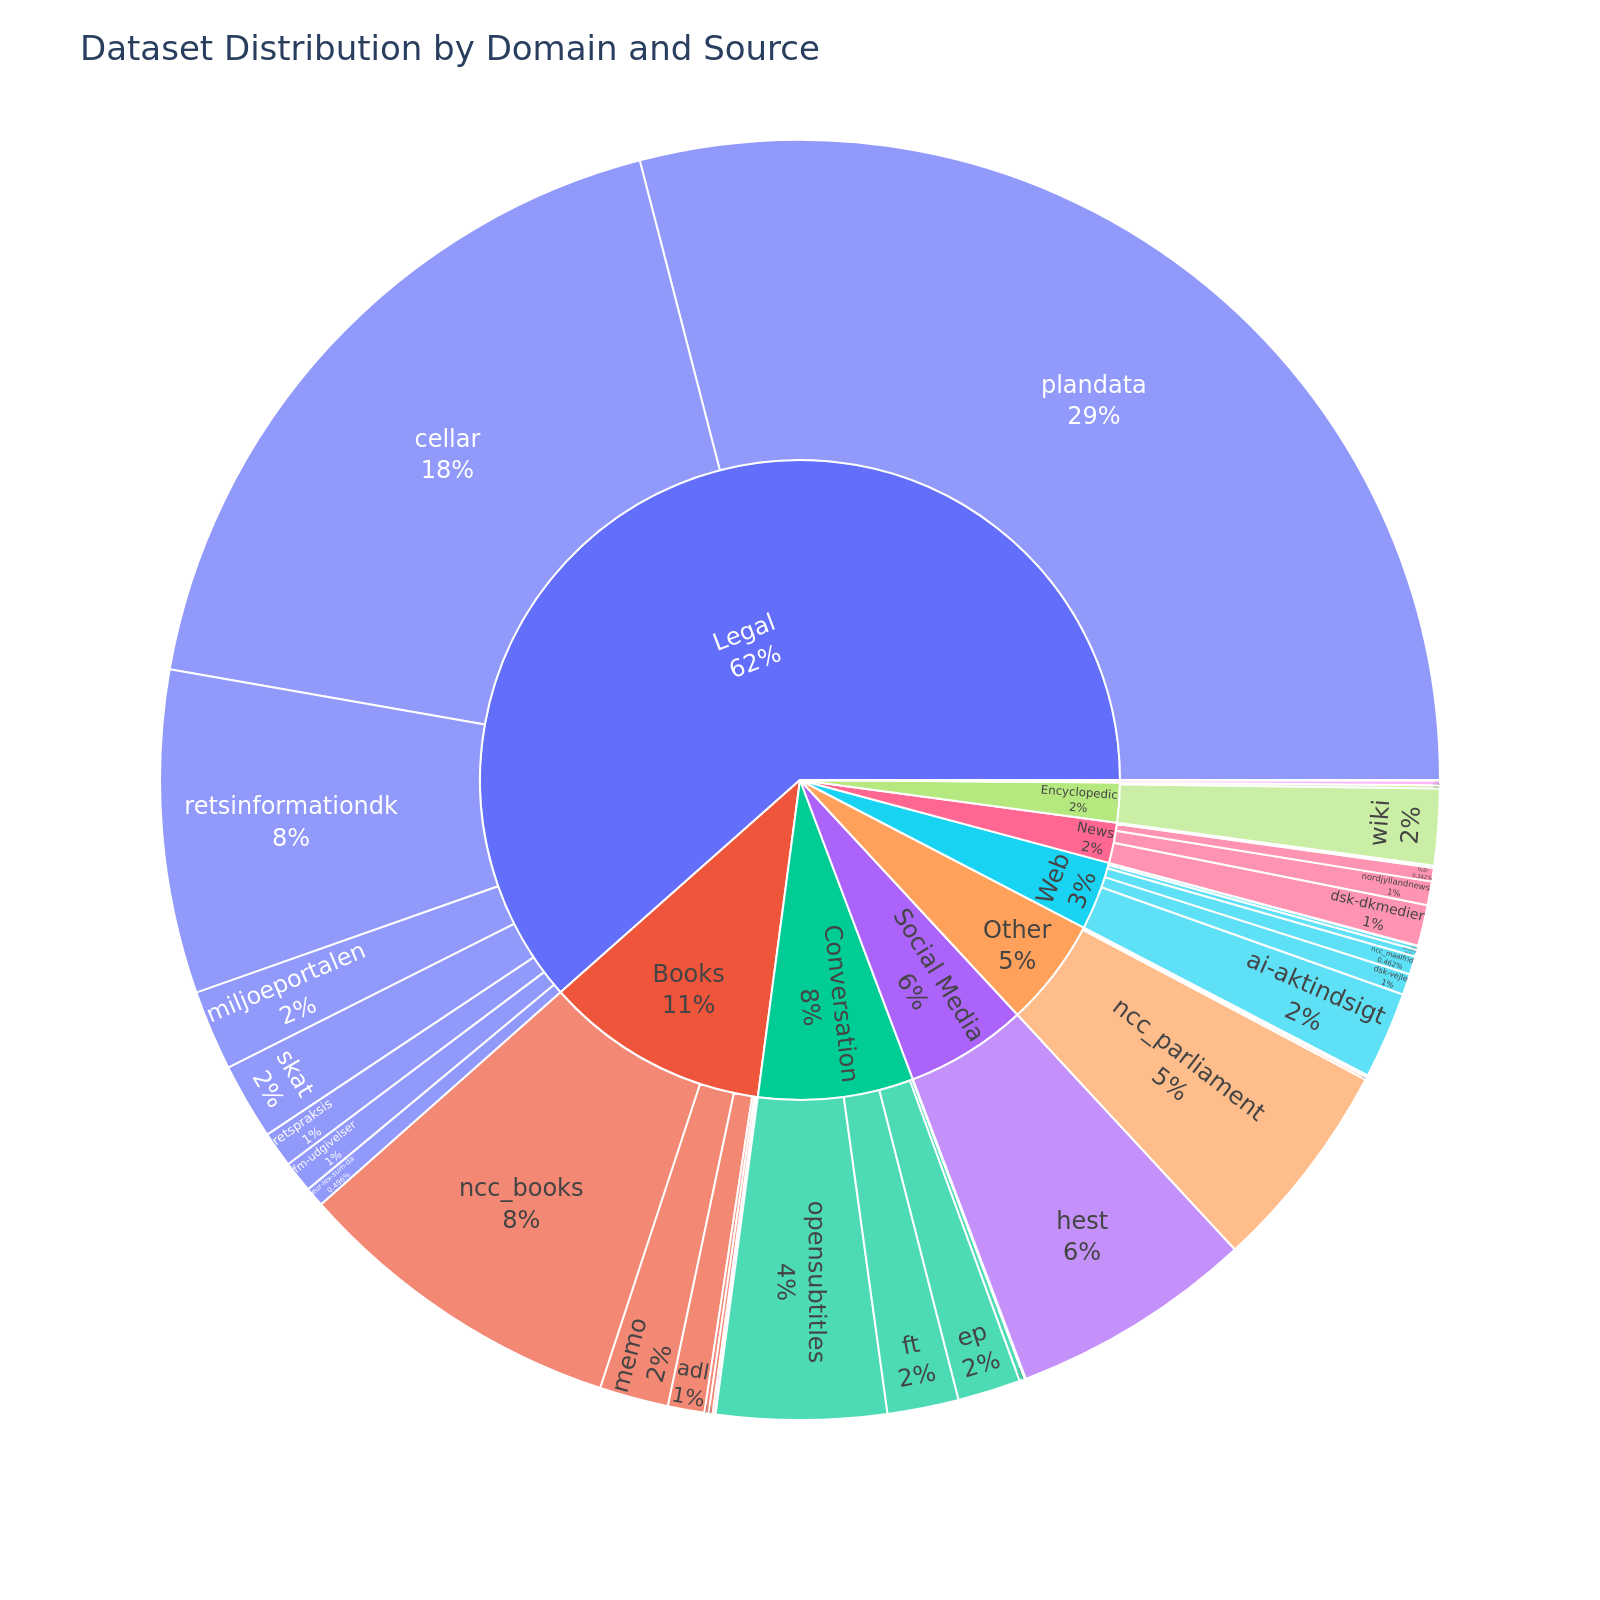
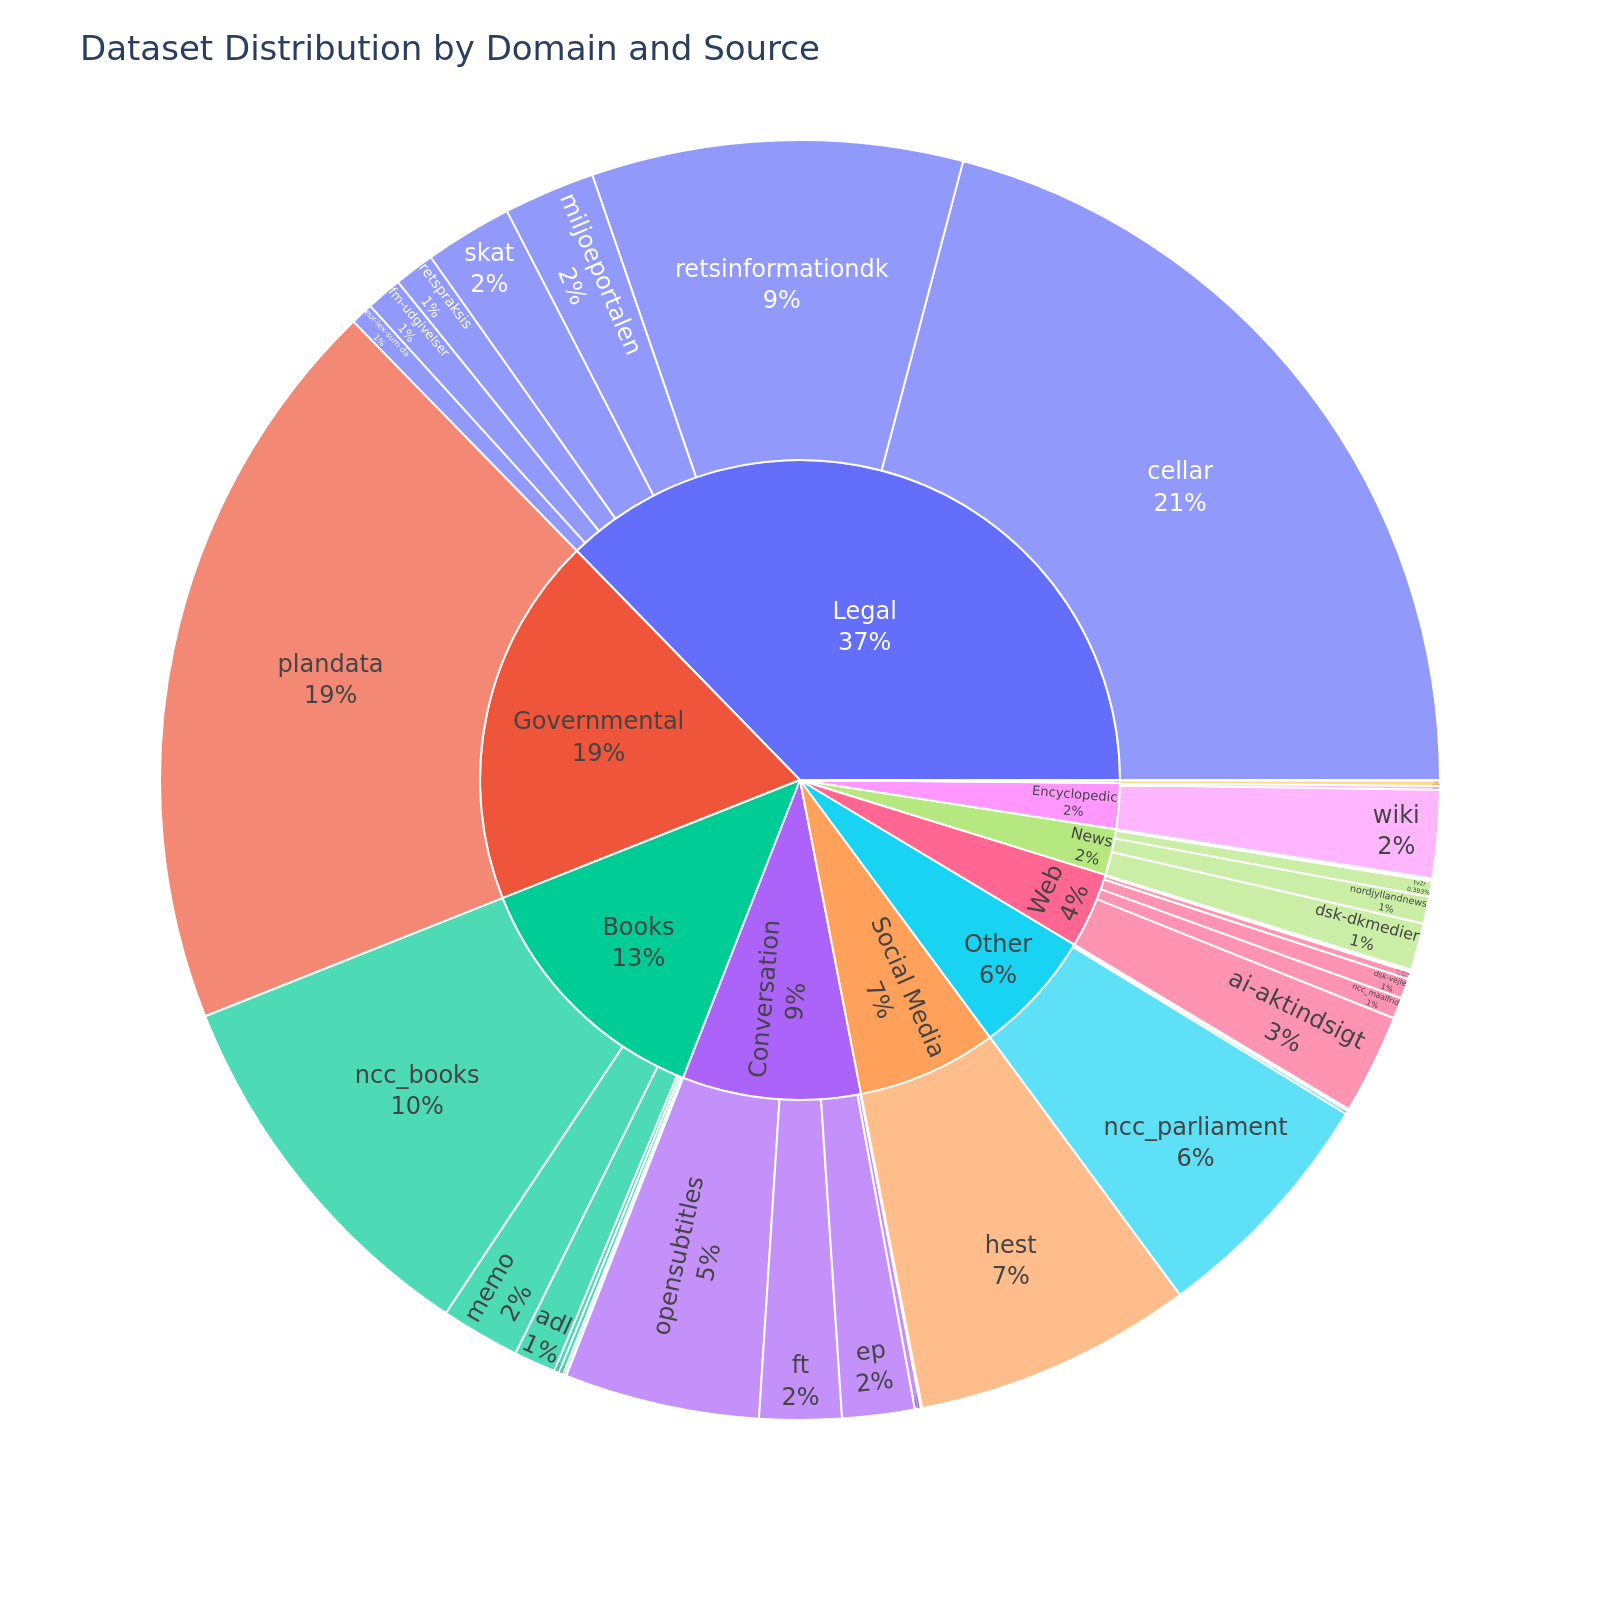
Minor edits to description, domains, and fixing License name issue

diff --git a/src/datasheets/generate_sheet.py b/src/datasheets/generate_sheet.py
@@ -27,7 +27,7 @@ DOMAINS_CHOICES = [
 LICENSE_ID_CHOICES = ["cc0-1.0", "cc-by-sa-4.0", "apache-2.0", "other"]
 LICENSE_NAMES_MAPPING = {
     "cc0-1.0": "CC-0",
-    "cc-by-sa-4.0": "CC BY-SA 4.0",
+    "cc-by-sa-4.0": "CC-BY-SA 4.0",
     "apache-2.0": "Apache 2.0",
 }
 

diff --git a/src/datasheets/typings.py b/src/datasheets/typings.py
@@ -5,6 +5,7 @@ DOMAIN = Literal[
     "Conversation",
     "Dialect",
     "Encyclopedic",
+    "Governmental",
     "Legal",
     "News",
     "Other",

diff --git a/README.md b/README.md
@@ -99,9 +99,9 @@ This repository contains the datasheets for DFM. This repostory documents.
 
 <!-- START-DESC-STATS -->
 - **Language**: dan, dansk, Danish
-- **Number of samples**: 1.17M
-- **Number of tokens (Llama 3)**: 6.33B
-- **Average document length (characters)**: 17509.03
+- **Number of samples**: 1.14M
+- **Number of tokens (Llama 3)**: 5.52B
+- **Average document length (characters)**: 15145.81
 <!-- END-DESC-STATS -->
 
 ### Summary
@@ -120,8 +120,8 @@ We generally split the dataset into two categories: Public release sources and r
 <!-- START-MAIN TABLE -->
 | Source              | Description                                                                                                                                                                                             | Domain       | N. Tokens   | License                                           |
 |:--------------------|:--------------------------------------------------------------------------------------------------------------------------------------------------------------------------------------------------------|:-------------|:------------|:--------------------------------------------------|
-| [plandata]          | A comprehensive dataset consisting of municipal planning documents from across Denmark, including local development plans, municipal plans, planning strategies, and related document types. | Legal        | 1.84B       | [Written agreement (public models, private data)] |
-| [cellar]            | The official digital repository for European Union legal documents and open data                                                                                                                        | Legal        | 1.15B       | [CC BY-SA 4.0]                                    |
+| [cellar]            | The official digital repository for European Union legal documents and open data                                                                                                                        | Legal        | 1.15B       | [CC-BY-SA 4.0]                                    |
+| [plandata]          | A comprehensive dataset consisting of municipal planning documents from across Denmark, including local development plans, municipal plans, planning strategies, and related document types             | Governmental | 1.03B       | [Written agreement (public models, private data)] |
 | [ncc_books]         | Danish books extracted from the [Norwegian Colossal Corpus](https://huggingface.co/datasets/NbAiLab/NCC) derived from OCR                                                                               | Books        | 531.97M     | [CC-0]                                            |
 | [retsinformationdk] | [retsinformation.dk](https://www.retsinformation.dk) (legal-information.dk) the official legal information system of Denmark                                                                            | Legal        | 516.47M     | [Danish Copyright Law]                            |
 | [hest]              | Samples from the Danish debate forum www.heste-nettet.dk                                                                                                                                                | Social Media | 389.31M     | [CC-0]                                            |
@@ -132,15 +132,15 @@ We generally split the dataset into two categories: Public release sources and r
 | [skat]              | Skat is the Danish tax authority. This dataset contains content from its website skat.dk                                                                                                                | Legal        | 122.11M     | [CC-0]                                            |
 | [wiki]              | The Danish subsection of [wikipedia](https://en.wikipedia.org/wiki/Main_Page)                                                                                                                           | Encyclopedic | 121.74M     | [CC-0]                                            |
 | [ft]                | Records from all meetings of The Danish parliament (Folketinget) in the parliament hall                                                                                                                 | Conversation | 114.09M     | [CC-0]                                            |
-| [memo]              | The MeMo corpus comprising almost all Danish novels from the period 1870-1899, known as the Modern Breakthrough                                                                                         | Books        | 110.23M     | [CC BY-SA 4.0]                                    |
+| [memo]              | The MeMo corpus comprising almost all Danish novels from the period 1870-1899, known as the Modern Breakthrough                                                                                         | Books        | 110.23M     | [CC-BY-SA 4.0]                                    |
 | [ep]                | The Danish subsection of [Europarl](https://aclanthology.org/2005.mtsummit-papers.11/)                                                                                                                  | Conversation | 100.88M     | [CC-0]                                            |
 | [dsk-dkmedier]      | A collection of ~100K news articles from [DK Medier](https://dkmedier.dk), written in the period 2000-2024                                                                                              | News         | 65.44M      | [DSK-1]                                           |
 | [adl]               | Danish literature from 1700-2023 from the [Archive for Danish Literature](https://tekster.kb.dk/text?editorial=no&f%5Bsubcollection_ssi%5D%5B%5D=adl&match=one&search_field=Alt) (ADL)                  | Books        | 58.49M      | [CC-0]                                            |
 | [retspraksis]       | Case law or judical practice in Denmark derived from [Retspraksis](https://da.wikipedia.org/wiki/Retspraksis)                                                                                           | Legal        | 57.08M      | [CC-0]                                            |
-| [fm-udgivelser]     | The official publication series of the Danish Ministry of Finance containing economic analyses, budget proposals, and fiscal policy documents                                                           | Legal        | 50.33M      | [CC BY-SA 4.0]                                    |
+| [fm-udgivelser]     | The official publication series of the Danish Ministry of Finance containing economic analyses, budget proposals, and fiscal policy documents                                                           | Legal        | 50.33M      | [CC-BY-SA 4.0]                                    |
 | [nordjyllandnews]   | Articles from the Danish Newspaper [TV2 Nord](https://www.tv2nord.dk)                                                                                                                                   | News         | 37.90M      | [CC-0]                                            |
 | [dsk-vejle]         | A collection of crawled webpages that is managed by Vejle Kommune. Contains various information, covering everything from tourists to garbage collection to historical knowledge of the area            | Web          | 33.52M      | [DSK-1]                                           |
-| [eur-lex-sum-da]    | The Danish subsection of EUR-lex SUM consisting of EU legislation paired with professionally written summaries                                                                                          | Legal        | 31.37M      | [CC BY-SA 4.0]                                    |
+| [eur-lex-sum-da]    | The Danish subsection of EUR-lex SUM consisting of EU legislation paired with professionally written summaries                                                                                          | Legal        | 31.37M      | [CC-BY-SA 4.0]                                    |
 | [ncc_maalfrid]      | Danish content from Norwegian institutions websites                                                                                                                                                     | Web          | 29.26M      | [NLOD 2.0]                                        |
 | [tv2r]              | Contemporary Danish newswire articles published between 2010 and 2019                                                                                                                                   | News         | 21.62M      | [CC-BY-SA 4.0]                                    |
 | [dsk-salling]       | A collection of crawled webpages that is managed by Salling Group. The dataset consists mainly of product pages from online stores such as bilka.dk, br.dk and such. The data consists of ~24K webpages | Web          | 10.75M      | [DSK-1]                                           |
@@ -167,7 +167,7 @@ We generally split the dataset into two categories: Public release sources and r
 | [depbank]           | The Danish subsection of the [Universal Dependencies Treebank](https://github.com/UniversalDependencies/UD_Danish-DDT)                                                                                  | Other        | 184.92K     | [CC-BY-SA 4.0]                                    |
 | [dsk-hofor]         | A collection of articles, guides and newsletters written by HOFOR for their customers                                                                                                                   | Other        | 143.49K     | [DSK-1]                                           |
 | [synne]             | Dataset collected from [synnejysk forening's website](https://www.synnejysk.dk), covering the Danish dialect sønderjysk                                                                                 | Other        | 52.33K      | [CC-0]                                            |
-| **Total**           |                                                                                                                                                                                                         |              | 6.33B       |                                                   |
+| **Total**           |                                                                                                                                                                                                         |              | 5.52B       |                                                   |
 
 [adl]: data/adl/adl.md
 [botxt]: data/botxt/botxt.md

diff --git a/data/plandata/plandata.md b/data/plandata/plandata.md
@@ -10,7 +10,7 @@ task_categories:
 task_ids:
 - language-modeling
 domains:
-- Legal
+- Governmental
 ---
 
 # Dataset Card for Plan- og Landdistriktsstyrelsen - Plandata.dk
@@ -19,21 +19,23 @@ domains:
 A comprehensive dataset consisting of municipal planning documents from across Denmark, including local development plans, municipal plans, planning strategies, and related document types.
 <!-- END-SHORT DESCRIPTION -->
 
-This dataset contains approximately 114,000 documents related to physical and strategic planning in Danish municipalities. The documents include local development plans (lokalplaner), municipal master plans (kommuneplaner), municipal planning strategies (kommuneplanstrategier), and other related planning documents that define the framework for land use, urban development, infrastructure, nature conservation, business, and residential areas.
+This dataset provides access to approximately 114,000 documents pertaining to physical and strategic planning within Danish municipalities. All documents were retrieved from [https://kort.plandata.dk](https://kort.plandata.dk/searchlist/#/search/0165/20/V). The collection includes key planning instruments such as local development plans (lokalplaner), municipal master plans (kommuneplaner), municipal planning strategies (kommuneplanstrategier), and other related documents. Collectively, these define the regulatory framework for land use, urban development, infrastructure, nature conservation, and the allocation of business and residential areas.
 
-The documents are authored and adopted by municipal authorities and often carry legal weight, making them relevant in legal, administrative, and urban planning contexts.
+Authored and officially adopted by municipal authorities, these documents often possess significant legal weight, making them invaluable for legal, administrative, and urban planning analyses.
 
+**Kommuneplaner (municipal plans)** serve as comprehensive, long-term strategic blueprints for an entire municipality. Spanning multiple years, they establish overarching goals for land use, infrastructure, housing, economic development, and environmental protection, ensuring alignment with both national and regional policies while addressing specific local priorities.
 
+**Lokalplaner (local plans)** offer a more granular perspective, focusing on specific neighborhoods, districts, or individual development projects within a municipality. These plans typically detail zoning regulations, building standards, traffic management solutions, and precise land use specifications for smaller geographical areas.
 
 
 ## Dataset Description
 
 <!-- START-DESC-STATS -->
 - **Language**: dan, dansk, Danish
-- **Domains**: Legal
-- **Number of samples**: 114.28K
-- **Number of tokens (Llama 3)**: 1.84B
-- **Average document length (characters)**: 57558.79
+- **Domains**: Governmental
+- **Number of samples**: 101.19K
+- **Number of tokens (Llama 3)**: 1.03B
+- **Average document length (characters)**: 34778.50
 <!-- END-DESC-STATS -->
 
 

diff --git a/data/fm-udgivelser/fm-udgivelser.md b/data/fm-udgivelser/fm-udgivelser.md
@@ -3,7 +3,7 @@ pretty_name: Finansministeriets Udgivelser
 language:
 - da
 license: cc-by-sa-4.0
-license_name: CC BY-SA 4.0
+license_name: CC-BY-SA 4.0
 task_categories:
 - text-generation
 - fill-mask

diff --git a/data/memo/memo.md b/data/memo/memo.md
@@ -3,7 +3,7 @@ pretty_name: MeMo Canonical Novels
 language:
 - da
 license: cc-by-sa-4.0
-license_name: CC BY-SA 4.0
+license_name: CC-BY-SA 4.0
 task_categories:
 - text-generation
 - fill-mask

diff --git a/data/eur-lex-sum-da/eur-lex-sum-da.md b/data/eur-lex-sum-da/eur-lex-sum-da.md
@@ -3,7 +3,7 @@ pretty_name: EUR-Lex SUM
 language:
 - da
 license: cc-by-sa-4.0
-license_name: CC BY-SA 4.0
+license_name: CC-BY-SA 4.0
 task_categories:
 - text-generation
 - fill-mask

diff --git a/data/cellar/cellar.md b/data/cellar/cellar.md
@@ -3,7 +3,7 @@ pretty_name: Cellar
 language:
 - da
 license: cc-by-sa-4.0
-license_name: CC BY-SA 4.0
+license_name: CC-BY-SA 4.0
 task_categories:
 - text-generation
 - fill-mask
